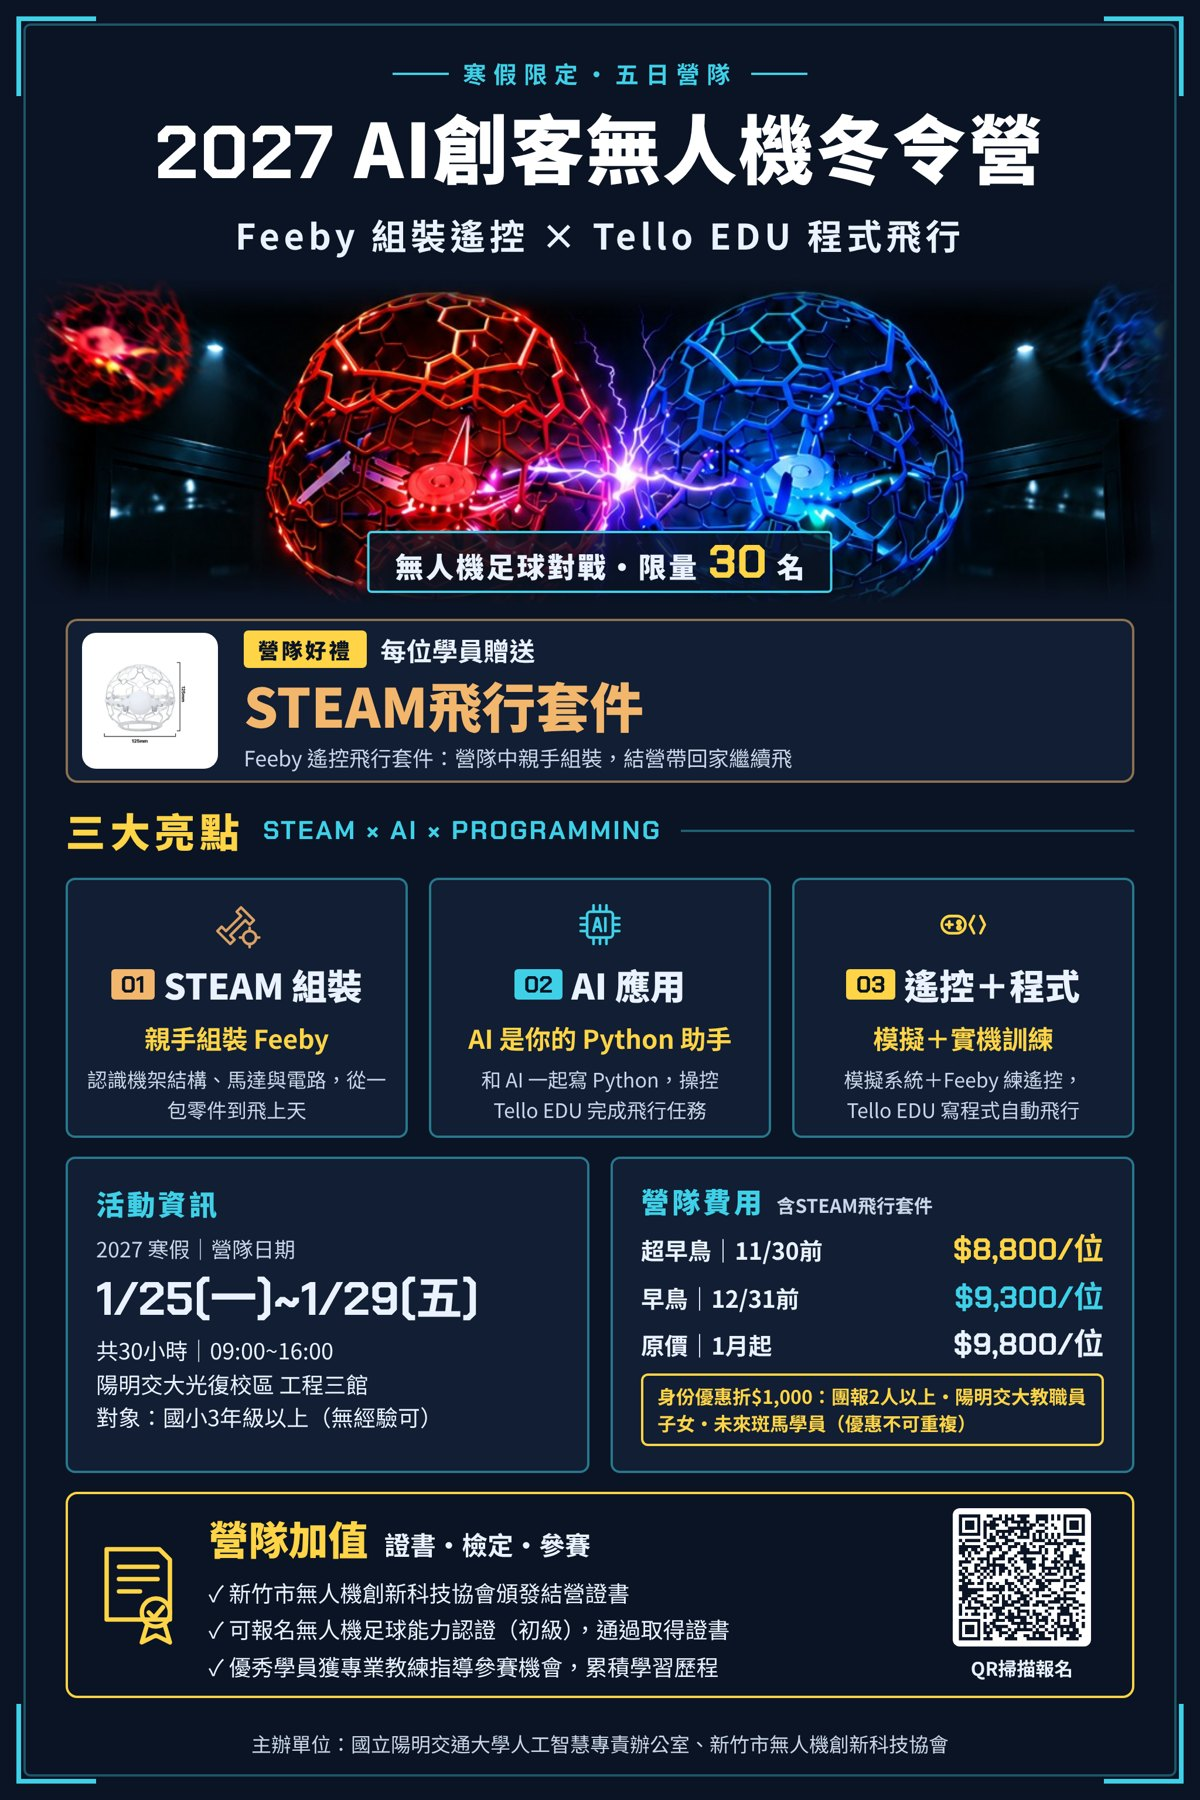
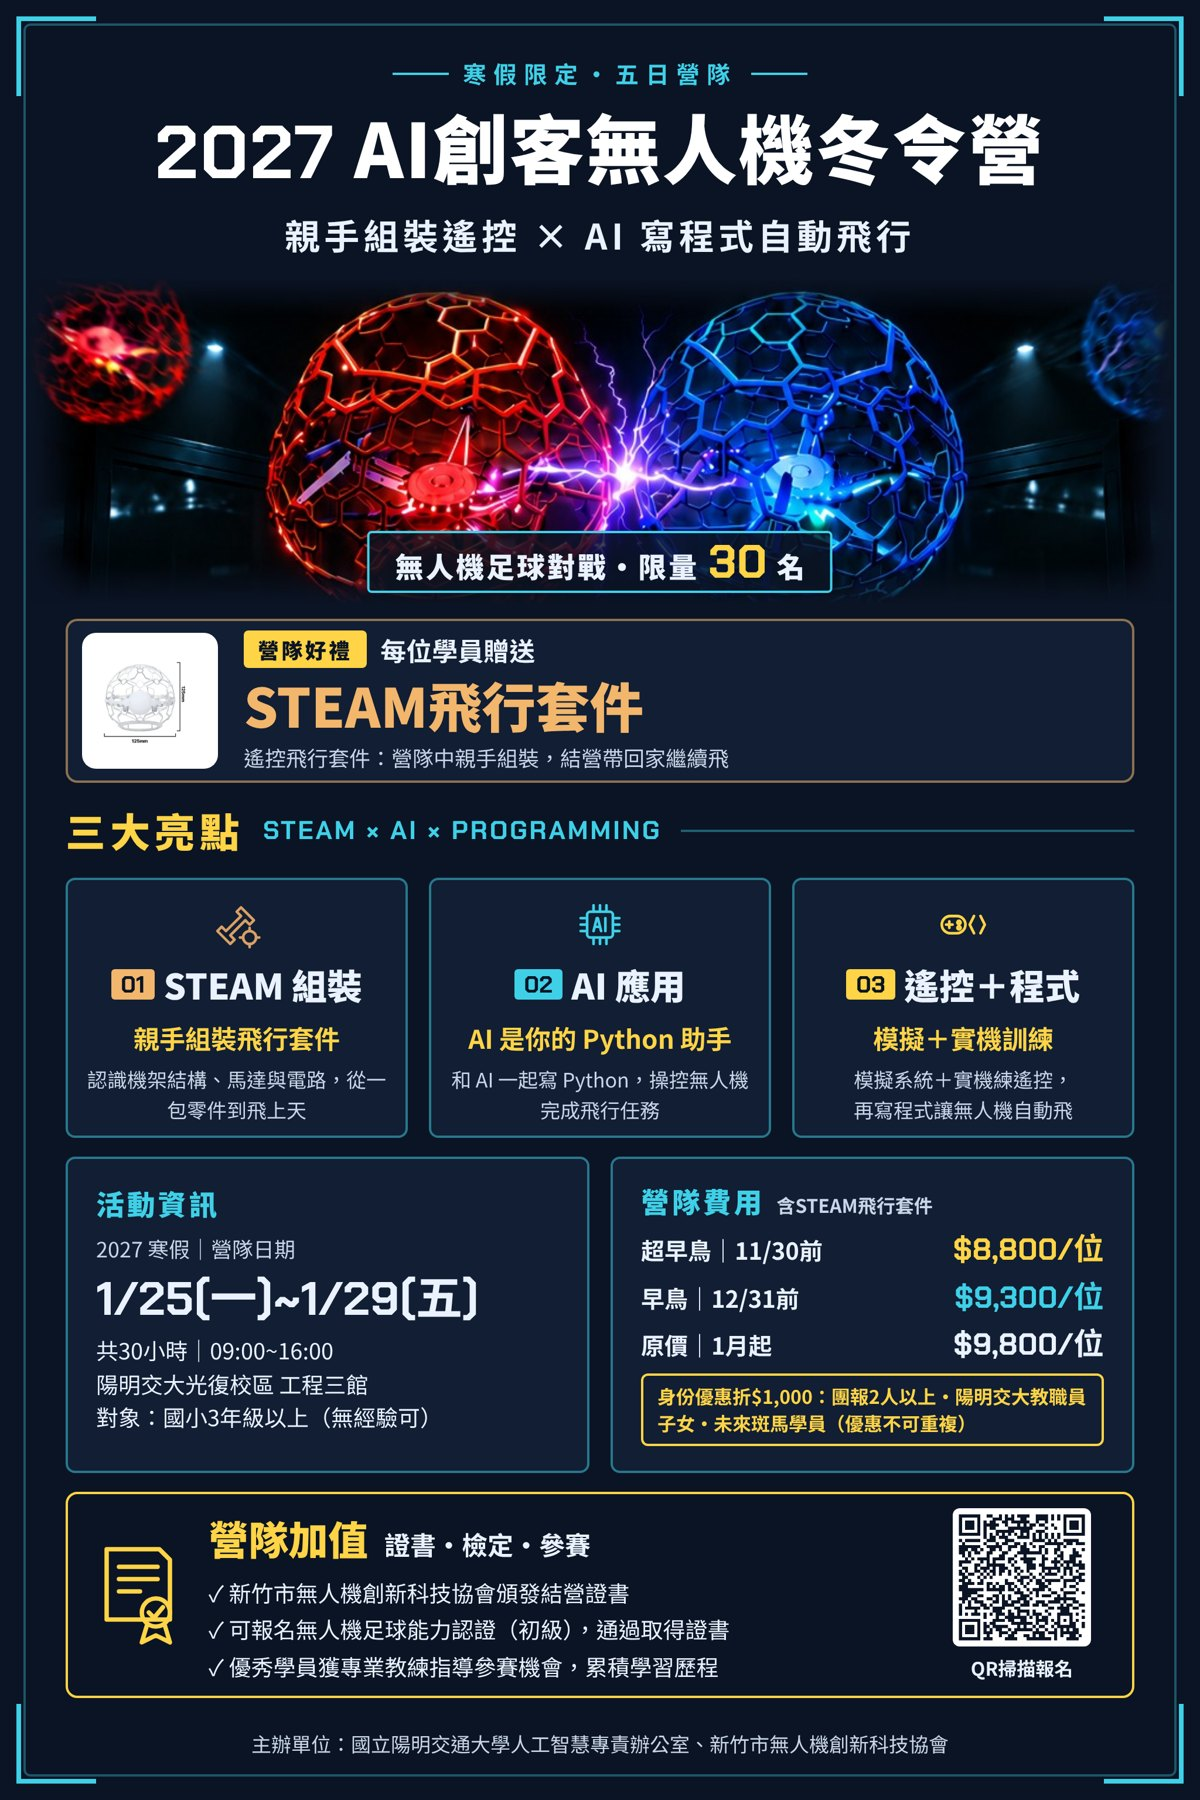
移除機型名稱
Claude-Session: https://claude.ai/code/session_01Q3ebcY2C3WL3Pb2YzcS4Jn

diff --git a/index.html b/index.html
@@ -8,7 +8,7 @@
 <meta property="og:image" content="https://greenmail1011.github.io/camp2027/dm.jpg">
 <style>:root{padding-top:env(safe-area-inset-top,0px);padding-bottom:env(safe-area-inset-bottom,0px)}body{margin:0}img{max-width:100%}[hidden]{display:none!important}</style>
 <title>2027 AI創客無人機冬令營</title>
-<meta name="description" content="2027 寒假五日營隊 1/25–1/29：組裝並遙控 Feeby、以 AI 為 Python 助手程式操控 Tello EDU，每位學員贈送 Feeby STEAM飛行套件。">
+<meta name="description" content="2027 寒假五日營隊 1/25–1/29：親手組裝遙控、以 AI 為 Python 助手寫程式自動飛行，每位學員贈送 STEAM飛行套件。">
 <link rel="preconnect" href="https://fonts.googleapis.com">
 <link rel="preconnect" href="https://fonts.gstatic.com" crossorigin>
 <link rel="stylesheet" href="https://fonts.googleapis.com/css2?family=Noto+Sans+TC:wght@400;500;700;900&family=Chakra+Petch:wght@600;700&display=swap">
@@ -202,13 +202,13 @@ footer{color:var(--muted);font-size:14px;text-align:center;border-top:1px solid 
   <section class="hero" aria-labelledby="t">
     <div class="eyebrow">寒假限定・五日營隊</div>
     <h1 id="t"><span class="num">2027</span> AI創客無人機冬令營</h1>
-    <p class="sub">Feeby 組裝遙控 × Tello&nbsp;EDU 程式飛行</p>
+    <p class="sub">親手組裝遙控 × AI 寫程式自動飛行</p>
     <p class="when">1/25<small>(一)</small> ~ 1/29<small>(五)</small></p>
     <figure class="battle"><img src="battle.jpg" alt="紅藍兩台球型足球無人機正面對撞、迸出電光" width="972" height="282"></figure>
     <div class="gift">
       <span class="tag">營隊好禮</span>
       <strong>每位學員贈送<br>STEAM飛行套件</strong>
-      <span>Feeby 遙控飛行套件：營隊中親手組裝，結營帶回家繼續飛</span>
+      <span>遙控飛行套件：營隊中親手組裝，結營帶回家繼續飛</span>
     </div>
     <div class="facts">
       <span class="chip">國小 <b class="num">3</b> 年級以上・無經驗可</span>
@@ -231,7 +231,7 @@ footer{color:var(--muted);font-size:14px;text-align:center;border-top:1px solid 
         <svg class="ic" viewBox="0 0 48 48" fill="none" stroke="#96591B" stroke-width="2.5" stroke-linecap="round" stroke-linejoin="round" aria-hidden="true"><path d="M28 8l12 12-4 4-4-4-14 14 4 4-4 4L6 30l4-4 4 4 14-14-4-4z"/><circle cx="36" cy="36" r="6"/><path d="M36 27v3M36 42v3M27 36h3M42 36h3"/></svg>
         <span class="k">STEAM</span>
         <h3>STEAM 組裝</h3>
-        <p class="lead">親手組裝 Feeby 飛行套件</p>
+        <p class="lead">親手組裝 STEAM 飛行套件</p>
         <p>認識機架結構、馬達與電路，從一包零件到飛上天。</p>
       </article>
       <article class="panel">
@@ -239,30 +239,30 @@ footer{color:var(--muted);font-size:14px;text-align:center;border-top:1px solid 
         <span class="k">AI</span>
         <h3>AI 應用</h3>
         <p class="lead">AI 是你的 Python 程式助手</p>
-        <p>以 AI 為 Python 程式助手，寫程式操控 Tello&nbsp;EDU 完成指定飛行任務。</p>
+        <p>以 AI 為 Python 程式助手，寫程式操控無人機完成指定飛行任務。</p>
       </article>
       <article class="panel y">
         <svg class="ic" viewBox="0 0 48 48" fill="none" stroke="#B07D00" stroke-width="2.5" stroke-linecap="round" stroke-linejoin="round" aria-hidden="true"><rect x="4" y="16" width="22" height="16" rx="8"/><path d="M11 21v6M8 24h6"/><circle cx="20" cy="22" r="1.5"/><circle cx="20" cy="27" r="1.5"/><path d="M34 16l-4 8 4 8M40 16l4 8-4 8"/></svg>
         <span class="k">RC + CODE</span>
         <h3>遙控＋程式控制</h3>
         <p class="lead">模擬＋實機飛行訓練</p>
-        <p>先在無人機足球模擬培訓系統練操控與戰術，再用 Feeby 實機遙控，最後寫 Python 讓 Tello&nbsp;EDU 自動完成任務。</p>
+        <p>先在無人機足球模擬培訓系統練操控與戰術，再用飛行套件實機遙控，最後寫 Python 讓程式教學無人機自動完成任務。</p>
       </article>
     </div>
   </section>
 
   <section aria-labelledby="h-kit">
     <div class="panel kit">
-      <figure class="kitpic"><img src="kit.jpg" alt="Feeby STEAM飛行套件：白色球型保護框無人機，尺寸 125 × 125 mm" width="465" height="464" loading="lazy"></figure>
+      <figure class="kitpic"><img src="kit.jpg" alt="STEAM飛行套件：白色球型保護框無人機，尺寸 125 × 125 mm" width="465" height="464" loading="lazy"></figure>
       <div>
         <h3 id="h-kit">贈品：STEAM飛行套件</h3>
-        <p>每位學員一套 Feeby，營隊中親手組裝，結營後帶回家繼續練習遙控飛行。</p>
+        <p>每位學員一套，營隊中親手組裝，結營後帶回家繼續練習遙控飛行。</p>
         <ul>
           <li>球型保護框設計，適合室內安全飛行</li>
           <li>尺寸約 <span class="num">125 × 125 mm</span>，輕巧好上手</li>
           <li>組裝過程同步學習力學、電路與動力原理</li>
           <li>回家也能延續營隊所學，持續練習飛行</li>
-          <li>程式飛行課使用營隊提供的 Tello&nbsp;EDU，不需自備</li>
+          <li>程式飛行課使用營隊提供的程式教學無人機，不需自備</li>
         </ul>
       </div>
     </div>
@@ -275,9 +275,9 @@ footer{color:var(--muted);font-size:14px;text-align:center;border-top:1px solid 
     </div>
     <ol class="days">
       <li><span class="d">1/25</span><h3>認識無人機與飛行安全</h3><p>飛行原理、安全規範，用無人機足球模擬培訓系統練習操控。</p></li>
-      <li><span class="d">1/26</span><h3>STEAM 組裝 Feeby</h3><p>機架、馬達、電路一步步組起來。</p></li>
-      <li><span class="d">1/27</span><h3>Feeby 遙控飛行訓練</h3><p>起降、定高、轉向，練出穩定手感。</p></li>
-      <li><span class="d">1/28</span><h3>AI 助手 × Tello&nbsp;EDU 程式飛行</h3><p>以 AI 為 Python 程式助手，寫出程式讓 Tello&nbsp;EDU 完成飛行任務。</p></li>
+      <li><span class="d">1/26</span><h3>STEAM 組裝飛行套件</h3><p>機架、馬達、電路一步步組起來。</p></li>
+      <li><span class="d">1/27</span><h3>實機遙控飛行訓練</h3><p>起降、定高、轉向，練出穩定手感。</p></li>
+      <li><span class="d">1/28</span><h3>AI 助手 × Python 程式飛行</h3><p>以 AI 為 Python 程式助手，寫出程式讓無人機自動完成飛行任務。</p></li>
       <li><span class="d">1/29</span><h3>任務挑戰與結營</h3><p>遙控＋程式任務挑戰，頒發結營證書。</p></li>
     </ol>
   </section>
@@ -396,8 +396,8 @@ footer{color:var(--muted);font-size:14px;text-align:center;border-top:1px solid 
     <div class="sec-head"><h2 id="h-faq">常見問題</h2></div>
     <div class="faq">
       <details><summary>完全沒有無人機經驗可以參加嗎？</summary><p>可以。課程從飛行安全與基本操作開始，國小 3 年級以上、無經驗皆可報名。</p></details>
-      <details><summary>STEAM飛行套件可以帶回家嗎？</summary><p>可以。每位學員在營隊中親手組裝自己的 Feeby，結營後直接帶回家。</p></details>
-      <details><summary>程式課用的無人機需要自己準備嗎？</summary><p>不用。Python 程式飛行課程使用營隊提供的 Tello&nbsp;EDU；帶回家的是遙控用的 Feeby 飛行套件。</p></details>
+      <details><summary>STEAM飛行套件可以帶回家嗎？</summary><p>可以。每位學員在營隊中親手組裝自己的飛行套件，結營後直接帶回家。</p></details>
+      <details><summary>程式課用的無人機需要自己準備嗎？</summary><p>不用。Python 程式飛行課程使用營隊提供的程式教學無人機；帶回家的是遙控用的 STEAM 飛行套件。</p></details>
       <details><summary>不會打字或寫程式也能上 AI 程式課嗎？</summary><p>可以。學員以 AI 作為 Python 程式助手，由 AI 協助產生與解釋程式，學員從修改數字、調整指令開始，循序漸進完成飛行任務。</p></details>
       <details><summary>結營有證書嗎？</summary><p>有。由新竹市無人機創新科技協會頒發結營證書，並可再報名無人機足球能力認證（初級）。</p></details>
     </div>
